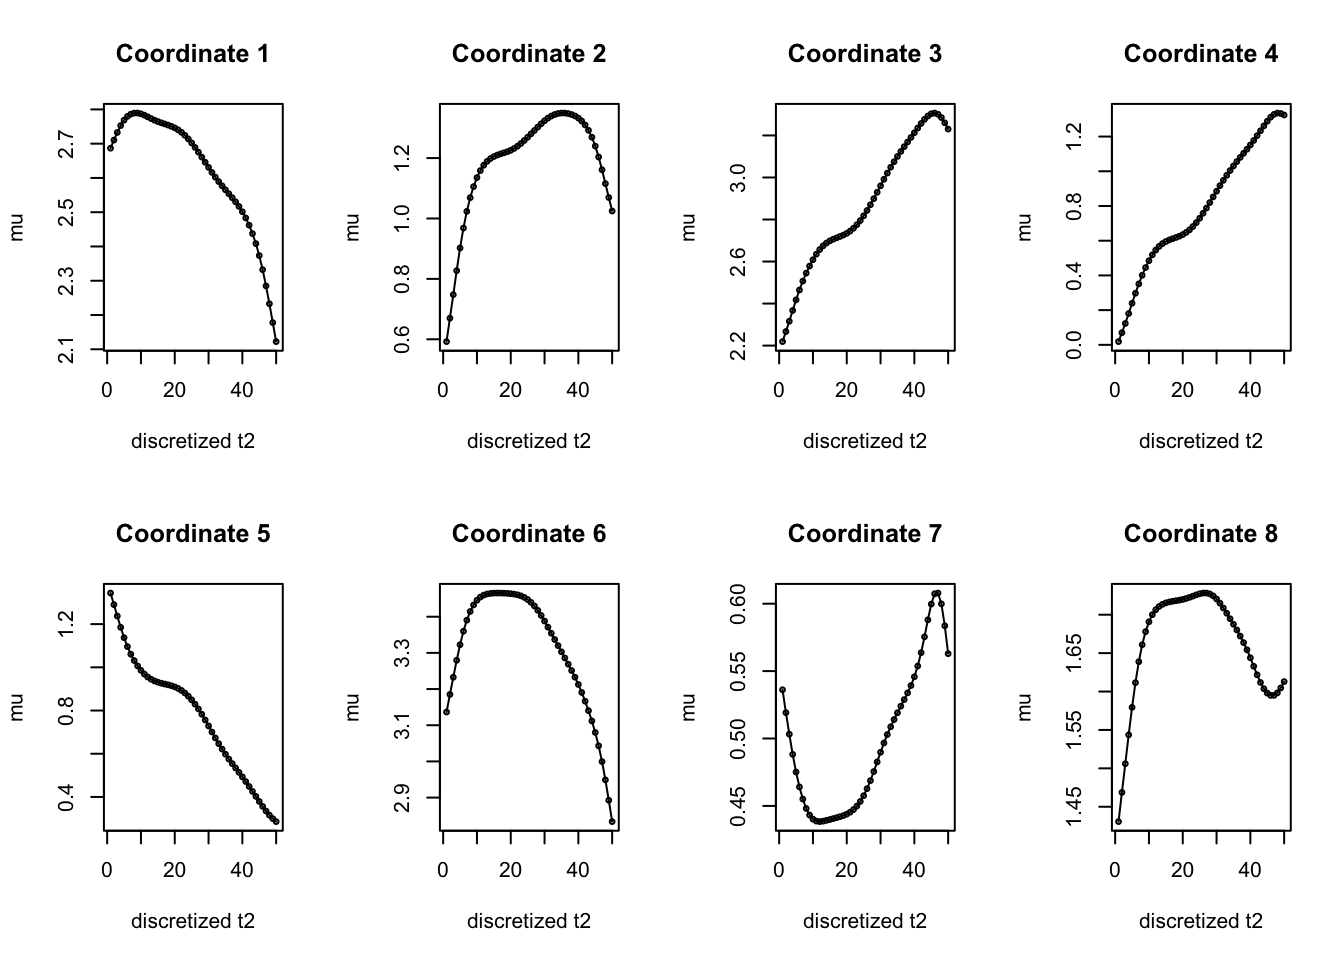
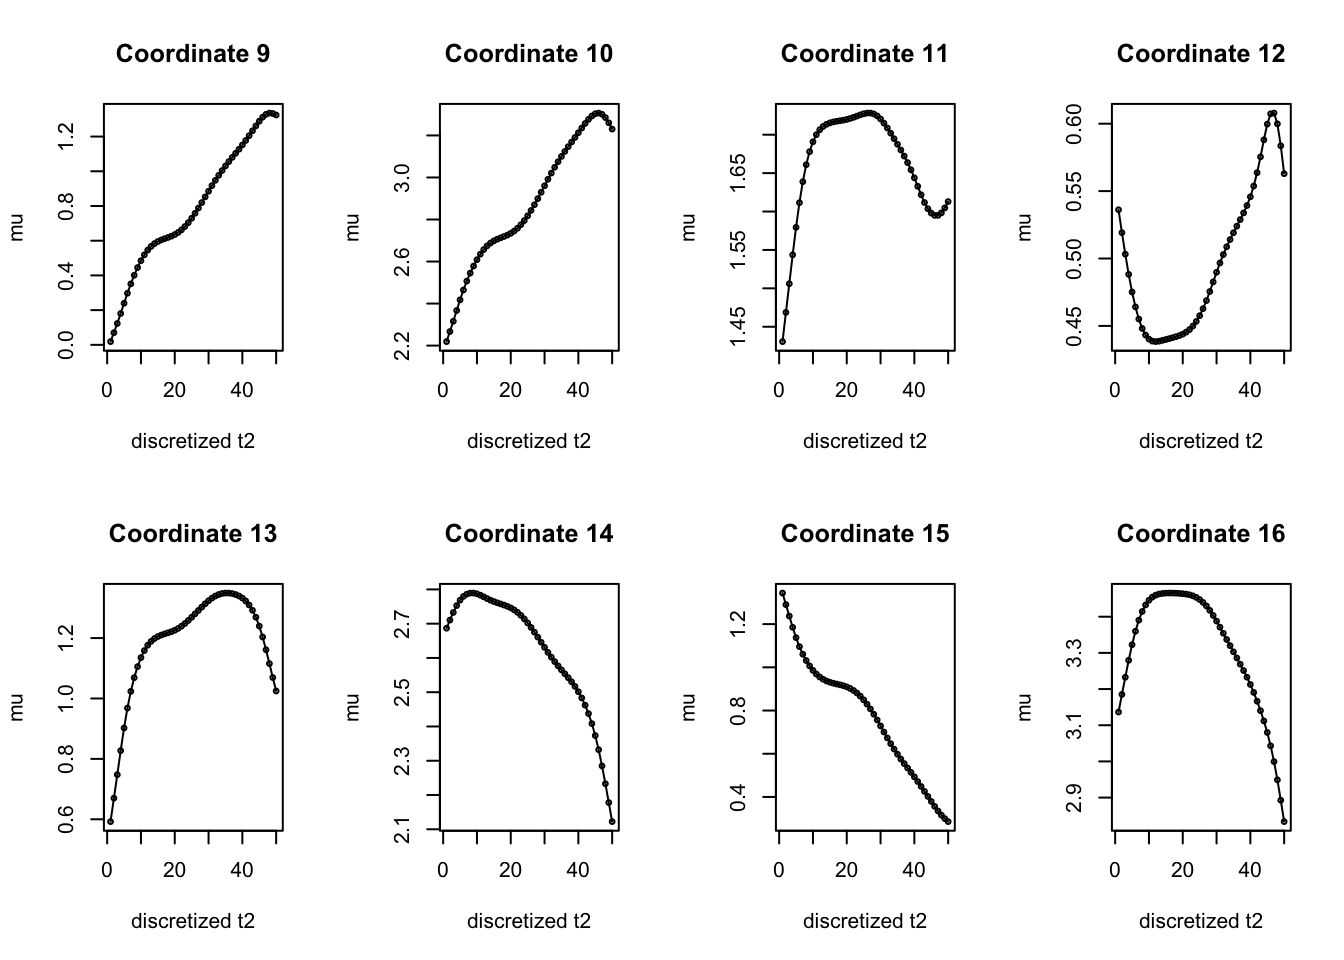
Build site.

diff --git a/docs/explore_SmoothEM_Mixture.html b/docs/explore_SmoothEM_Mixture.html
@@ -510,15 +510,15 @@ project makes it easier to run your code on other machines.</p>
 <div class="panel panel-default">
 <div class="panel-heading">
 <p class="panel-title">
-<a data-toggle="collapse" data-parent="#workflowr-checks" href="#strongRepositoryversionstrongahrefhttpsgithubcomAgueroZZInferOrdertreee8fa00c80b8fbe3852390e1b2ab7a68dfec75eabtargetblanke8fa00ca">
+<a data-toggle="collapse" data-parent="#workflowr-checks" href="#strongRepositoryversionstrongahrefhttpsgithubcomAgueroZZInferOrdertree6c8b619a3ab1c92a9087d90baf3e830162361dd0targetblank6c8b619a">
 <span class="glyphicon glyphicon-ok text-success"
 aria-hidden="true"></span> <strong>Repository version:</strong>
-<a href="https://github.com/AgueroZZ/InferOrder/tree/e8fa00c80b8fbe3852390e1b2ab7a68dfec75eab" target="_blank">e8fa00c</a>
+<a href="https://github.com/AgueroZZ/InferOrder/tree/6c8b619a3ab1c92a9087d90baf3e830162361dd0" target="_blank">6c8b619</a>
 </a>
 </p>
 </div>
 <div
[2 lines of base64/hex data omitted]
 class="panel-collapse collapse">
 <div class="panel-body">
 <p>
@@ -528,7 +528,7 @@ reproducibility.
 </p>
 <p>
 The results in this page were generated with repository version
-<a href="https://github.com/AgueroZZ/InferOrder/tree/e8fa00c80b8fbe3852390e1b2ab7a68dfec75eab" target="_blank">e8fa00c</a>.
+<a href="https://github.com/AgueroZZ/InferOrder/tree/6c8b619a3ab1c92a9087d90baf3e830162361dd0" target="_blank">6c8b619</a>.
 See the <em>Past versions</em> tab to see a history of the changes made
 to the R Markdown and HTML files.
 </p>
@@ -547,6 +547,7 @@ Ignored files:
     Ignored:    .Rhistory
     Ignored:    .Rproj.user/
     Ignored:    analysis/.DS_Store
+    Ignored:    analysis/site_libs/
     Ignored:    code/.Rhistory
 
 Untracked files:
@@ -600,6 +601,40 @@ Message
 </tr>
 </thead>
 <tbody>
+<tr>
+<td>
+Rmd
+</td>
+<td>
+<a href="https://github.com/AgueroZZ/InferOrder/blob/6c8b619a3ab1c92a9087d90baf3e830162361dd0/analysis/explore_SmoothEM_Mixture.rmd" target="_blank">6c8b619</a>
+</td>
+<td>
+Ziang Zhang
+</td>
+<td>
+2025-08-01
+</td>
+<td>
+workflowr::wflow_publish("analysis/explore_SmoothEM_Mixture.rmd")
+</td>
+</tr>
+<tr>
+<td>
+html
+</td>
+<td>
+<a href="https://rawcdn.githack.com/AgueroZZ/InferOrder/6095b41463f4a3771cca216107b79f94d14d76fe/docs/explore_SmoothEM_Mixture.html" target="_blank">6095b41</a>
+</td>
+<td>
+Ziang Zhang
+</td>
+<td>
+2025-08-01
+</td>
+<td>
+Build site.
+</td>
+</tr>
 <tr>
 <td>
 Rmd
@@ -1141,7 +1176,7 @@ Iteration  3: reassigned 0 coordinates (J1 = 8, J2 = 8)</code></pre>
 the second 8 coordinates are assigned to the other partition.</p>
 <p>Let’s visualize the inferred <span
 class="math inline">\(\boldsymbol{\mu}^{(1)}\)</span>:</p>
-<pre class="r"><code>all_coordinates_1 &lt;- permut_cols[res$coord_assign == 1]
+<pre class="r"><code>all_coordinates_1 &lt;- permut_cols[res$coord_assign == 2]
 par(mfrow = c(2, 4))
 for (i in 1:length(res$result1$params$mu[[1]])) {
   index &lt;- order(all_coordinates_1)[i]
@@ -1176,6 +1211,17 @@ Date
 <tbody>
 <tr>
 <td>
+<a href="https://github.com/AgueroZZ/InferOrder/blob/6095b41463f4a3771cca216107b79f94d14d76fe/docs/figure/explore_SmoothEM_Mixture.rmd/unnamed-chunk-6-1.png" target="_blank">6095b41</a>
+</td>
+<td>
+Ziang Zhang
+</td>
+<td>
+2025-08-01
+</td>
+</tr>
+<tr>
+<td>
 <a href="https://github.com/AgueroZZ/InferOrder/blob/0fdf6de4af7c0fd1e5e385d91d511efc90b3e95a/docs/figure/explore_SmoothEM_Mixture.rmd/unnamed-chunk-6-1.png" target="_blank">0fdf6de</a>
 </td>
 <td>
@@ -1203,7 +1249,7 @@ Ziang Zhang
 <pre class="r"><code>par(mfrow = c(1, 1))</code></pre>
 <p>Also visualize the inferred <span
 class="math inline">\(\boldsymbol{\mu}^{(2)}\)</span>:</p>
-<pre class="r"><code>all_coordinates_2 &lt;- permut_cols[res$coord_assign == 2]
+<pre class="r"><code>all_coordinates_2 &lt;- permut_cols[res$coord_assign == 1]
 par(mfrow = c(2, 4))
 for (i in 1:length(res$result2$params$mu[[1]])) {
   index &lt;- order(all_coordinates_2)[i]
@@ -1236,6 +1282,17 @@ Date
 </tr>
 </thead>
 <tbody>
+<tr>
+<td>
+<a href="https://github.com/AgueroZZ/InferOrder/blob/6095b41463f4a3771cca216107b79f94d14d76fe/docs/figure/explore_SmoothEM_Mixture.rmd/unnamed-chunk-7-1.png" target="_blank">6095b41</a>
+</td>
+<td>
+Ziang Zhang
+</td>
+<td>
+2025-08-01
+</td>
+</tr>
 <tr>
 <td>
 <a href="https://github.com/AgueroZZ/InferOrder/blob/0fdf6de4af7c0fd1e5e385d91d511efc90b3e95a/docs/figure/explore_SmoothEM_Mixture.rmd/unnamed-chunk-7-1.png" target="_blank">0fdf6de</a>
